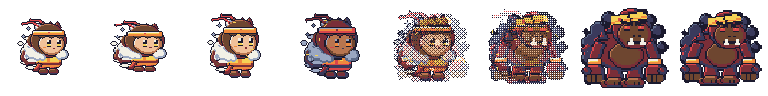
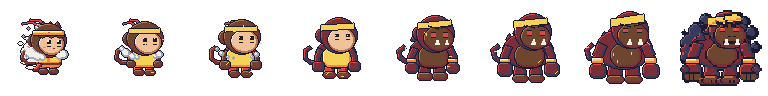
Great Ape morph: drawn in-between creatures whose body parts stretch and morph
ape_morph(t, scale) interpolates each part's shape between Wukong and the ape, sprouts
arms/fists, retracts feathers and collar, staggers colour switches, drawn crisp at
each growth step. morph_frames takes the in-between function so other forms can reuse it.

Claude-Session: https://claude.ai/code/session_01J8LgTLVYzThXjNSRVhWqep

diff --git a/tools/sprites/generate.py b/tools/sprites/generate.py
@@ -923,42 +923,121 @@ def poof_frame(size: int, k: int, color) -> Image.Image:
     return outline(c.img)
 
 
-def morph_frames(a: Image.Image, b: Image.Image, b_scale: float) -> list[Image.Image]:
-    """Transformation from frame `a` into form `b` (drawn `b_scale` x in game), in full colour, growing
-    into it: crouch, stretch up, darken as it powers up, blend into b while still growing (ordered
-    dither, gold sparks crackling), overshoot, settle. CELL-sized frames; the size change is baked in,
-    so the strip is drawn at the normal sprite scale (SpecialFx) and pixels stay crisp."""
+def ape_morph(t: float, scale: float) -> Image.Image:
+    """An in-between creature, `t` of the way from Wukong to the Great Ape, drawn crisp at `scale` x (a CELL
+    frame centred like a scaled sprite): every body part's shape is interpolated between the two designs
+    (legs thicken and splay, the torso swells into a hunched back, arms and fists sprout, the head pushes
+    forward, the circlet tilts), and fur / face / eyes switch to the ape's halfway."""
+    c = Canvas(CELL)
+    k = CELL / 2
+
+    def pt(p0, p1, dy=0):  # interpolate a point (art px) and map it into the scaled cell
+        return (k + (p0[0] + (p1[0] - p0[0]) * t - 32) * scale, k + (p0[1] + (p1[1] - p0[1]) * t + dy - 32) * scale)
+
+    def pts(a, b, dy=0):
+        return [pt(p0, p1, dy) for p0, p1 in zip(a, b)]
+
+    def box(a, b, dy=0):
+        (x0, y0), (x1, y1) = pt(a[:2], b[:2], dy), pt(a[2:], b[2:], dy)
+        return (x0, y0, x1, y1)
+
+    def w(a, b):
+        return max(1, round((a + (b - a) * t) * scale))
+
+    ape = t >= 0.55  # face, eyes and chest turn; the fur darkens a step earlier so changes are staggered
+    fur = MAROON if t >= 0.4 else BROWN
+    face_c = BROWN if ape else SKIN
+    u = UPPER_DY
+
+    def shrink(points, r):  # Wukong-only bits shrink away towards their first point by t = r
+        f = max(0.0, 1 - t / r)
+        x0, y0 = points[0]
+        return [pt((x0 + (x - x0) * f, y0 + (y - y0) * f), (x0 + (x - x0) * f, y0 + (y - y0) * f), u) for x, y in points]
+
+    if t < 0.45:  # pheasant feathers retract
+        c.part(L(shrink([(25, 10), (16, 4), (6, 6)], 0.45), w(2, 2)), RED, shade=False)
+        c.part(L(shrink([(29, 9), (24, 3), (14, 2)], 0.45), w(2, 2)), RED, shade=False)
+    if t > 0.5:  # bristling back fur pushes up
+        for x, y in ((14, 18), (20, 13), (27, 11)):
+            c.part(P(pts([(x + 3, y + 7), (x + 3, y + 5), (x + 3, y + 7)], [(x, y + 5), (x + 3, y), (x + 6, y + 5)], u)),
+                   MAROON)
+    # tail: Wukong's curl stretches into the ape's
+    c.part(L(pts([(21, 44), (11, 45), (6, 40), (7, 33), (11, 31)], [(14, 40), (9, 39), (6, 38), (4, 31), (8, 27)], u),
+             w(3, 3)), fur)
+    for x0, x1 in ((24, 21), (34, 35)):  # legs thicken and splay; feet broaden
+        c.part(P(pts([(x0, 45), (x0 + 5, 45), (x0 + 5, 54), (x0, 54)],
+                     [(x1, 44), (x1 + 8, 44), (x1 + 9, 54), (x1 - 1, 54)])), MAROON if ape else RED)
+        c.part(RR(box((x0 - 1, 53, x0 + 7, 57), (x1 - 2, 53, x1 + 10, 58)), w(2, 2)), BROWN)
+    # the hunched back swells out from behind the armour
+    c.part(E(box((20, 31, 44, 48), (10, 14, 54, 45), u)), fur)
+    if t > 0.1:  # the back arm sprouts from the shoulder
+        c.part(L(pts([(22, 36), (20, 40), (20, 42)], [(15, 26), (11, 36), (11, 44)], u), w(2, 7)), fur)
+    # the golden armour shrinks into the ape's chest
+    c.part(RR(box((20, 33, 44, 48), (22, 26, 44, 43), u), w(3, 8)), BROWN if ape else YELLOW)
+    if t > 0.1:  # front arm and both fists grow
+        c.part(L(pts([(42, 36), (44, 40), (44, 42)], [(49, 26), (53, 36), (53, 44)], u), w(2, 7)), fur)
+        for x0, x1 in ((18, 5), (40, 47)):
+            if ape:
+                c.part(R(box((x0 + 1, 41, x0 + 5, 42), (x1 + 2, 38, x1 + 10, 41), u)), YELLOW)
+            c.part(RR(box((x0, 42, x0 + 6, 46), (x1, 42, x1 + 12, 53), u), w(1, 3)), fur)
+    # head: Wukong's round head pushes forward and shrinks into the ape's
+    if t < 0.75:
+        c.part(E(box((11, 17, 21, 28), (20, 10, 28, 20), u)), fur)  # ear tucks in
+    c.part(E(box((15, 6, 49, 38), (24, 3, 50, 29), u)), fur)
+    c.part(E(box((23, 15, 47, 36), (28, 11, 50, 29), u)), face_c)
+    collar = ((11, 31, 3), (15, 35, 5), (21, 38, 4), (26, 39, 3), (43, 38, 3), (47, 36, 4))
+    for x, y, r in collar:  # the cloud collar puffs away
+        rr = r * scale * (1 - t / 0.5)
+        if rr >= 1:
+            cx, cy = pt((x, y), (x, y), u)
+            c.part(E((cx - rr, cy - rr, cx + rr, cy + rr)), WHITE, line=False)
+    # the circlet tilts askew
+    c.part(P(pts([(17, 13), (47, 13), (47, 16), (17, 16)], [(23, 8), (47, 4), (47, 9), (23, 13)], u)), YELLOW,
+           shade=False)
+    for x0, x1 in ((31, 32), (41, 42)):  # eyes slide and narrow; turn red and angry halfway
+        ex, ey = pt((x0, 22), (x1, 14), u)
+        eh = w(6, 3)
+        ew = w(3, 3)
+        if ape:
+            c.flat(R((ex, ey, ex + ew, ey + eh)), OUTLINE)
+            c.flat(R((ex, ey + 1, ex + ew, ey + eh - 1)), RED)
+        else:
+            c.flat(R((ex, ey, ex + ew, ey + eh)), OUTLINE)
+            c.flat(R((ex, ey + eh - 2, ex + ew, ey + eh - 1)), YELLOW)
+            c.dot(round(ex), round(ey), WHITE)
+    if ape:  # scowl and fangs push in
+        for bx in ((29, 11, 37, 14), (48, 11, 40, 14)):
+            c.flat(L(pts([bx[:2], bx[2:]], [bx[:2], bx[2:]], u), w(1, 2)), OUTLINE)
+        for fx in (35, 43):
+            c.flat(P(pts([(fx, 27), (fx + 3, 27), (fx + 2, 25), (fx + 1, 25)],
+                         [(fx, 27), (fx + 3, 27), (fx + 2, 23), (fx + 1, 23)], u)), WHITE)
+    return outline(c.img)
+
+
+def morph_frames(a: Image.Image, b: Image.Image, b_scale: float, between) -> list[Image.Image]:
+    """Transformation from a character's frame `a` into its form `b` (drawn `b_scale` x in game), in full colour:
+    six in-between creatures (`between(t, scale)`, e.g. ape_morph) that stretch, swell and grow, with gold sparks crackling. CELL-sized
+    frames with the growth baked in, drawn at the normal sprite scale (SpecialFx) so pixels stay crisp."""
     rng = random.Random(7)
 
-    def at(img, sx, sy=None):  # img scaled (NEAREST) about the cell centre
-        w, h = round(SIZE * sx), round(SIZE * (sy or sx))
+    def at(img, sc):  # img scaled (NEAREST) about the cell centre
+        n = round(SIZE * sc)
         out = Image.new("RGBA", (CELL, CELL), (0, 0, 0, 0))
-        out.alpha_composite(img.resize((w, h), Image.NEAREST), ((CELL - w) // 2, (CELL - h) // 2))
+        out.alpha_composite(img.resize((n, n), Image.NEAREST), ((CELL - n) // 2, (CELL - n) // 2))
         return out
 
-    def mix(s, p):  # each pixel from one sprite or the other at the same size: both stay readable
-        fa, fb = at(a, s), at(b, s)
-        out = Image.new("RGBA", (CELL, CELL), (0, 0, 0, 0))
-        for y in range(CELL):
-            for x in range(CELL):
-                out.putpixel((x, y), (fb if BAYER[y % 4][x % 4] / 16 < p else fa).getpixel((x, y)))
-        return out
-
-    def sparks(img, n=6):  # short gold crackles inside the body
-        c = Canvas(CELL)
-        c.img, c.px = img, img.load()
-        inside = [(x, y) for y in range(CELL) for x in range(CELL) if c.px[x, y][3]]
+    def sparks(img, n=5):  # short gold crackles inside the body
+        px = img.load()
+        inside = [(x, y) for y in range(CELL) for x in range(CELL) if px[x, y][3]]
         for x, y in rng.sample(inside, n):
             dx, dy = rng.choice(((1, 0), (0, 1), (1, 1), (1, -1)))
             for j in range(3):
                 if 1 < x + dx * j < CELL - 2 and 1 < y + dy * j < CELL - 2:
-                    c.dot(x + dx * j, y + dy * j, YELLOW)
+                    px[x + dx * j, y + dy * j] = YELLOW + (255,)
         return img
 
-    g = b_scale - 1.0
-    return [at(a, 1.0), at(a, 1.1, 0.92), sparks(at(a, 1.04, 1.14), 4),
-            sparks(at(recolor(a, DARKER.__getitem__), 1 + g * 0.45)), sparks(mix(1 + g * 0.65, 0.35)),
-            sparks(mix(1 + g * 0.85, 0.7)), at(b, b_scale * 1.06), at(b, b_scale)]
+    steps = (0.15, 0.3, 0.45, 0.6, 0.75, 0.9)
+    return [at(a, 1.0)] + [sparks(between(t, 1 + (b_scale - 1) * t)) for t in steps] + [at(b, b_scale)]
 
 
 BAYER = ((0, 8, 2, 10), (12, 4, 14, 6), (3, 11, 1, 9), (15, 7, 13, 5))
@@ -1016,7 +1095,7 @@ FX = {
     # Transformation strips (SkillData.form_morph): the character's first idle frame into the form's.
     # 1.35 = great_ape.tres form_scale (keep in sync).
     "wukong_ape_morph": lambda: strip(morph_frames(frames(wukong, AURAS["wukong"])[0],
-                                                   frames(wukong_ape, AURAS["wukong_ape"])[0], 1.35)),
+                                                   frames(wukong_ape, AURAS["wukong_ape"])[0], 1.35, ape_morph)),
 }
 
 

diff --git a/.claude/skills/transform-morph/SKILL.md b/.claude/skills/transform-morph/SKILL.md
@@ -14,19 +14,22 @@ hidden (`Player` uses `is_morphing()`) — and backwards when it ends. Purely co
 
 1. The form itself must exist first: `def <id>_<form>(step=None, t=0)` in generate.py `FORMS`
    (+ optional aura in `AURAS`), same rules as the `new-character` skill.
-2. Add the strip to `FX` in generate.py:
+2. Write `def <form>_morph(t, scale) -> Image.Image` next to `ape_morph` (copy it): an in-between creature
+   `t` of the way from character to form, drawn **crisp at `scale`** into a CELL frame (map art points with its
+   `pt`/`pts`/`box` helpers, never resize art). Interpolate every body part's shape between the two designs
+   (same point count both sides), sprout new parts (arms, fists) from where they'd grow, shrink away
+   character-only bits (feathers, collar), and **stagger** colour switches (fur first, then face/eyes/chest)
+   so no single frame changes everything. The user wants to see the body stretching and morphing — not a
+   crossfade, not white silhouettes, not a scaled-up copy of the sprite.
+3. Add the strip to `FX` in generate.py:
    ```python
    "<id>_<form>_morph": lambda: strip(morph_frames(frames(<id>, AURAS.get("<id>"))[0],
-                                                   frames(<id>_<form>, AURAS.get("<id>_<form>"))[0], <form_scale>)),
+                                                   frames(<id>_<form>, AURAS.get("<id>_<form>"))[0],
+                                                   <form_scale>, <form>_morph)),
    ```
-   `<form_scale>` must match the skill's `form_scale`. `morph_frames(a, b, scale)` gives 8 full-colour
-   frames that grow into the form: crouch, stretch, darken, two ordered-dither blends while growing (gold
-   sparks), overshoot, settle. No white silhouettes (the user didn't like them); the growth is in the art,
-   not engine scaling, so pixels stay crisp. Tweak the
-   spark colour / count there if the form has a different theme (keep it generic; pass a parameter
-   rather than forking the function).
-3. Run the generator; Read a x4 NEAREST preview. Each middle frame should still show both outlines
-   (if it turns into a shapeless blob, the sprites are being unioned instead of picked per pixel).
+   `<form_scale>` must match the skill's `form_scale`. Frames: the character, six in-betweens (t 0.15-0.9,
+   growing, gold sparks), the form. Run the generator and Read a x3 NEAREST preview; iterate until each
+   step changes a little and the first and last in-betweens still read as their neighbours.
 4. In `data/skills/<skill>.tres` add an `ext_resource` for `res://assets/fx/<id>_<form>_morph.png` and
    `form_morph = ExtResource("...")`.
 5. `godot --headless --import`, run GUT.

diff --git a/CLAUDE.md b/CLAUDE.md
@@ -244,9 +244,10 @@ A mobile real-time PvP arena shooter. Combat feel is inspired by top-down roguel
   with seq + `VOLLEY_SEQ_OFFSET`). Dual Wield is still pickable too.
   Flourishes (`SpecialFx`, detected from synced state changes so remote players show them too): clones appear in
   their own cloud poof in a ring around the player (`CLONE_START_DISTANCE`), fade in, and vanish in poofs; the Great Ape transformation is struck by lightning, morphs
-  (`SkillData.form_morph`: 8-frame 96 px strip, full colour: Wukong crouches, stretches, darkens and grows,
-  dithers into the ape while growing, overshoots and settles; growth baked into the frames, drawn at the normal
-  sprite scale while the real sprite is hidden) and bursts out of a cloud; it ends in a dark puff,
+  (`SkillData.form_morph`: 8-frame 96 px strip, full colour: Wukong, six in-between creatures
+  drawn by generate.py `ape_morph(t, scale)` (every body part's shape interpolated, arms/fists sprout, feathers and
+  collar retract, colours switch in stages, growing), the ape; drawn at the normal sprite scale while the real
+  sprite is hidden) and bursts out of a cloud; it ends in a dark puff,
   morphing back. These and the Smoke Bomb cloud are pixel-art strips generated into `assets/fx/`
   (generate.py `FX`: poof / poof_small / poof_dark 10 frames (swell, then burst into wisps), wukong_ape_morph, bolt 3 variants, smoke 4-frame loop; `Canvas(size)`
   now takes any size). Still smooth (Effects): explosion rings, sword arcs, beams, particles. Not done: bots don't prefer usable pickups; no
